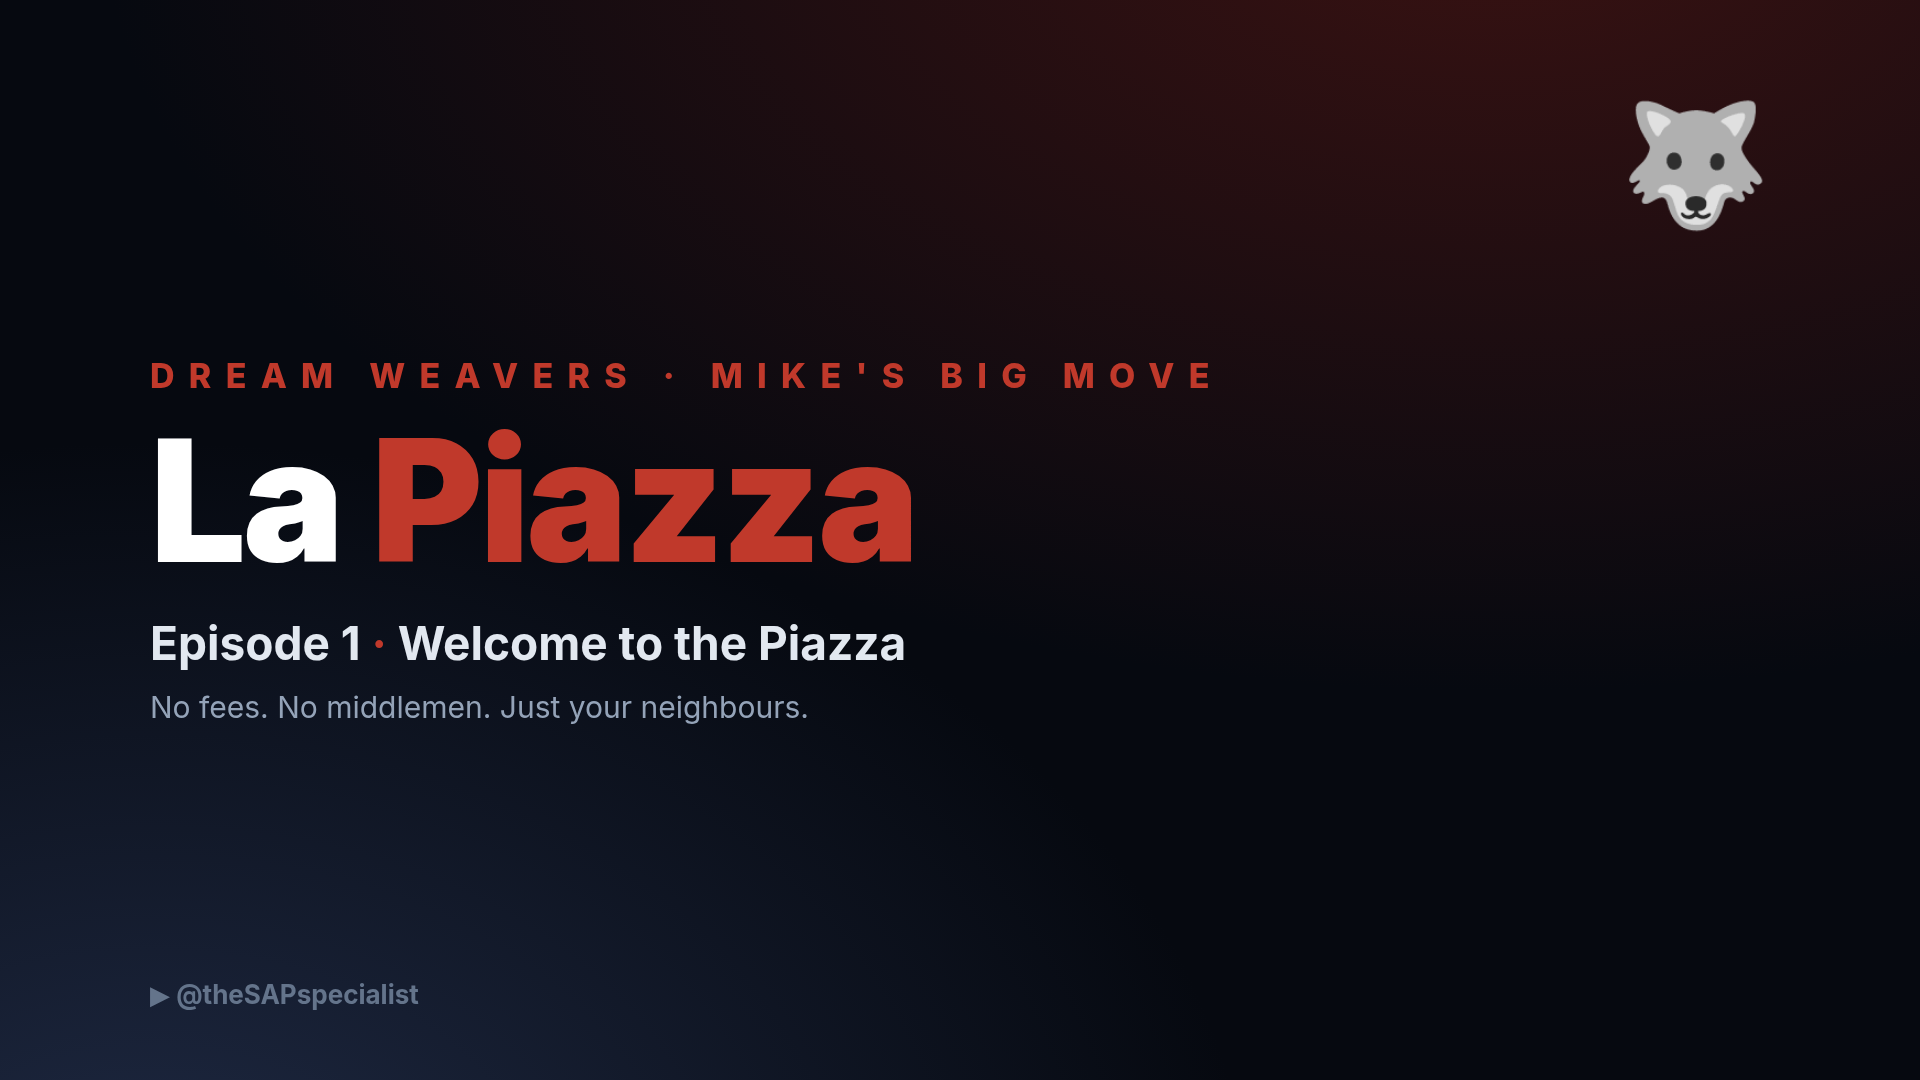
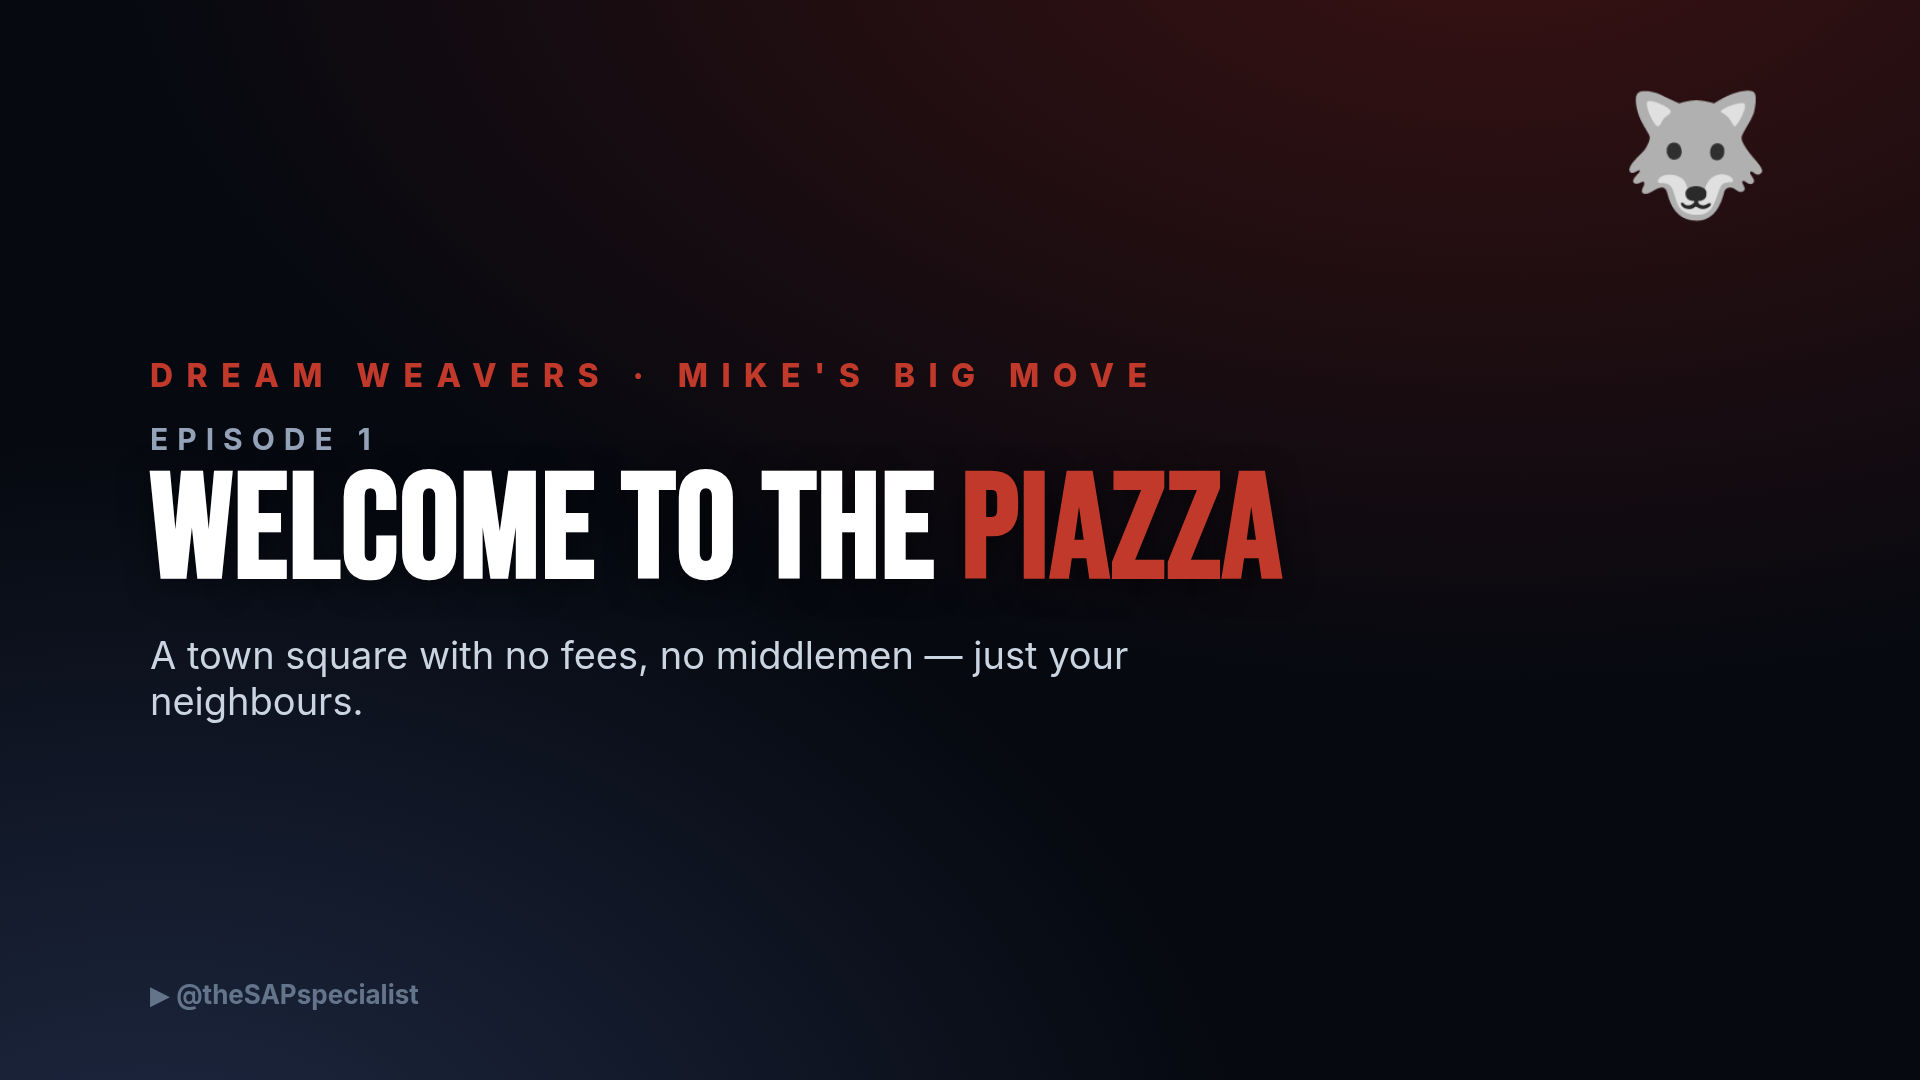
feat(video): the card pass — all 12 intro/outro cards + crossfade stitch (publish-ready season)
Parametrized card-template.html -> render-cards.js generates all 24 intro/outro cards (Ep 11 gets
the 'THE LIFT' crane climax card; Ep 12 the 'Build your own' finale). stitch-episodes.js wraps each
body with intro+outro cards and SMOOTH 0.7s crossfades (xfade). Finals in Videos/dream-weavers/final/
(not git). Season 1 is publish-ready for @user. Reusable for future seasons.

diff --git a/stories/dream-weavers/cards/card-template.html b/stories/dream-weavers/cards/card-template.html
@@ -1,0 +1,58 @@
+<!DOCTYPE html><html><head><meta charset="utf-8">
+<link href="https://fonts.googleapis.com/css2?family=Inter:wght@400;700;800;900&family=Bebas+Neue&display=swap" rel="stylesheet">
+<style>
+  *{margin:0;padding:0;box-sizing:border-box}
+  body{width:1920px;height:1080px;overflow:hidden;font-family:Inter,system-ui,sans-serif;color:#fff;
+    background:radial-gradient(1400px 800px at 78% -10%, #3a1212, transparent),
+               radial-gradient(1100px 800px at 8% 115%, #1f2a44, transparent), #060910;position:relative}
+  .wrap{position:absolute;inset:0;display:flex;flex-direction:column;justify-content:center;padding:0 150px}
+  .kicker{font-size:32px;letter-spacing:.42em;color:#C0392B;font-weight:800;text-transform:uppercase}
+  .epno{font-size:30px;letter-spacing:.3em;color:#94a3b8;font-weight:700;margin-top:26px;text-transform:uppercase}
+  h1{font-family:'Bebas Neue',sans-serif;font-size:148px;line-height:.92;letter-spacing:.01em;margin:8px 0 0;text-shadow:0 6px 30px rgba(0,0,0,.5)}
+  h1 .red{color:#C0392B}
+  .tag{font-size:38px;color:#cbd5e1;font-weight:500;margin-top:30px;max-width:1200px}
+  .ch{position:absolute;bottom:70px;left:150px;font-size:26px;color:#64748b;font-weight:600}
+  .wolf{position:absolute;top:80px;right:150px;font-size:120px}
+  /* outro */
+  .center{align-items:center;text-align:center;padding:0 120px}
+  .next{font-size:30px;letter-spacing:.3em;color:#C0392B;font-weight:800;text-transform:uppercase}
+  .cta{margin-top:54px;font-size:44px;font-weight:900;background:#C0392B;color:#fff;padding:22px 60px;border-radius:18px;display:inline-block}
+  .foot{position:absolute;bottom:64px;width:100%;left:0;text-align:center;font-size:26px;color:#64748b;font-weight:600}
+  .climax{position:absolute;right:90px;top:60px;font-size:340px;opacity:.13;transform:rotate(-8deg)}
+</style></head>
+<body>
+<script>
+  const p = new URLSearchParams(location.search);
+  const kind = p.get('kind') || 'intro';
+  const n = p.get('n') || '1';
+  const title = p.get('title') || '';
+  const tag = p.get('tag') || '';
+  const next = p.get('next') || '';
+  const climax = p.get('climax') === '1';
+  const finale = p.get('finale') === '1';
+  const esc = s => (s || '').replace(/&/g, '&amp;').replace(/</g, '&lt;');
+  // render red-accent the last word of a title
+  const redLast = t => { const w = esc(t).split(' '); if (w.length) w[w.length - 1] = '<span class="red">' + w[w.length - 1] + '</span>'; return w.join(' '); };
+  let html = '';
+  if (kind === 'intro') {
+    html = `${climax ? '<div class="climax">🏗️</div>' : '<div class="wolf">🐺</div>'}
+      <div class="wrap">
+        <div class="kicker">Dream Weavers · Mike's Big Move</div>
+        <div class="epno">Episode ${esc(n)}</div>
+        <h1>${redLast(title)}</h1>
+        <div class="tag">${esc(tag)}</div>
+      </div>
+      <div class="ch">▶ @theSAPspecialist</div>`;
+  } else {
+    html = `<div class="wolf">🐺</div>
+      <div class="wrap center">
+        ${finale
+          ? `<div class="next">La Piazza</div><h1 style="font-size:120px">Build your <span class="red">own</span>.</h1><div class="tag" style="margin-top:20px;text-align:center">A town square with no fees, no middlemen. Forever.</div>`
+          : `<div class="next">Next Episode</div><div class="epno" style="margin-top:14px">Episode ${esc(+n + 1)}</div><h1>${redLast(next)}</h1>`}
+        <div class="cta">▶ Subscribe · @theSAPspecialist</div>
+      </div>
+      <div class="foot">La Piazza · free · open source · forever</div>`;
+  }
+  document.body.insertAdjacentHTML('beforeend', html);
+</script>
+</body></html>

diff --git a/scripts/render-cards.js b/scripts/render-cards.js
@@ -1,0 +1,41 @@
+// Render all Dream Weavers intro/outro cards (1920x1080 PNGs) from the parametrized template.
+const puppeteer = require('puppeteer');
+const path = require('path');
+const TEMPLATE = 'file://' + path.resolve(__dirname, '../stories/dream-weavers/cards/card-template.html');
+const OUT = path.resolve(__dirname, '../stories/dream-weavers/cards');
+
+const EP = [
+  { n: 1, title: 'Welcome to the Piazza', tag: 'A town square with no fees, no middlemen — just your neighbours.' },
+  { n: 2, title: 'Ask the Neighbourhood', tag: 'Stuck on something big? Post it. The neighbourhood answers.' },
+  { n: 3, title: 'The Crew Rallies', tag: 'Five neighbours say yes — and Sally starts baking.' },
+  { n: 4, title: "It's Bigger Than a Garage", tag: 'A 1,000-lb crane needs twenty hands — so Mike makes an event.' },
+  { n: 5, title: 'RSVP and Open It Up', tag: 'The count climbs. Members RSVP. Everyone is welcome.' },
+  { n: 6, title: 'The Side Conversation', tag: 'The cookies, arranged quietly in the messages.' },
+  { n: 7, title: 'Grow the Crowd', tag: 'Share the link, scan the code — the crowd grows.' },
+  { n: 8, title: 'The Trade', tag: "Bowls for muscle. You don't always pay in euros." },
+  { n: 9, title: 'Spot the Scammer', tag: 'The off-platform funnel, caught — the warmth is protected.' },
+  { n: 10, title: "Who's Coming?", tag: 'See who looked. Say hi. Turn lookers into the last hands.' },
+  { n: 11, title: 'Saturday: The Lift', tag: 'Twenty hands. The crane rises. The cookies arrive.', climax: true },
+  { n: 12, title: 'Build Your Own Piazza', tag: 'You saw it work. Now build your own.', finale: true },
+];
+
+(async () => {
+  const b = await puppeteer.launch({ headless: 'new', args: ['--no-sandbox', '--disable-setuid-sandbox'] });
+  const page = await b.newPage();
+  await page.setViewport({ width: 1920, height: 1080, deviceScaleFactor: 1 });
+  const render = async (params, out) => {
+    const qs = new URLSearchParams(params).toString();
+    await page.goto(`${TEMPLATE}?${qs}`, { waitUntil: 'networkidle0' });
+    await new Promise(r => setTimeout(r, 450));   // fonts + the inject script
+    await page.screenshot({ path: out });
+    console.log('  ', path.basename(out));
+  };
+  for (const e of EP) {
+    const nn = String(e.n).padStart(2, '0');
+    const next = EP.find(x => x.n === e.n + 1);
+    await render({ kind: 'intro', n: e.n, title: e.title, tag: e.tag, climax: e.climax ? '1' : '' }, `${OUT}/ep${nn}-intro.png`);
+    await render({ kind: 'outro', n: e.n, next: next ? next.title : '', finale: e.finale ? '1' : '' }, `${OUT}/ep${nn}-outro.png`);
+  }
+  await b.close();
+  console.log('all cards rendered ->', OUT);
+})();

diff --git a/scripts/stitch-episodes.js b/scripts/stitch-episodes.js
@@ -1,0 +1,32 @@
+// Stitch each Dream Weavers episode: intro card + body + outro card, with smooth crossfades (xfade).
+const { execSync } = require('child_process');
+const fs = require('fs');
+const path = require('path');
+const CARDS = path.resolve(__dirname, '../stories/dream-weavers/cards');
+const VID = '/home/angel/Videos/dream-weavers';
+const FINAL = VID + '/final';
+fs.mkdirSync(FINAL, { recursive: true });
+
+const INTRO = 2.8, OUTRO = 3.2, XF = 0.7;   // card holds + crossfade duration (seconds)
+
+for (let n = 1; n <= 12; n++) {
+  const nn = String(n).padStart(2, '0');
+  const body = `${VID}/ep${nn}-playthrough.mp4`;
+  const intro = `${CARDS}/ep${nn}-intro.png`, outro = `${CARDS}/ep${nn}-outro.png`;
+  if (!fs.existsSync(body)) { console.log(`ep${nn}: no body, skip`); continue; }
+  const dur = parseFloat(execSync(`ffprobe -v error -show_entries format=duration -of csv=p=0 "${body}"`).toString().trim());
+  const off1 = (INTRO - XF).toFixed(2);
+  const off2 = (INTRO + dur - 2 * XF).toFixed(2);
+  const out = `${FINAL}/ep${nn}.mp4`;
+  const fc = [
+    `[0]fps=24,format=yuv420p,scale=1920:1080,setsar=1[i]`,
+    `[1]fps=24,format=yuv420p,scale=1920:1080,setsar=1[b]`,
+    `[2]fps=24,format=yuv420p,scale=1920:1080,setsar=1[o]`,
+    `[i][b]xfade=transition=fade:duration=${XF}:offset=${off1}[ib]`,
+    `[ib][o]xfade=transition=fade:duration=${XF}:offset=${off2}[v]`,
+  ].join(';');
+  execSync(`ffmpeg -y -loglevel error -loop 1 -t ${INTRO} -i "${intro}" -i "${body}" -loop 1 -t ${OUTRO} -i "${outro}" -filter_complex "${fc}" -map "[v]" -c:v libx264 -preset medium -crf 20 -pix_fmt yuv420p -movflags +faststart "${out}"`, { stdio: 'inherit' });
+  const fdur = parseFloat(execSync(`ffprobe -v error -show_entries format=duration -of csv=p=0 "${out}"`).toString().trim());
+  console.log(`  ep${nn}: body ${dur.toFixed(1)}s -> final ${fdur.toFixed(1)}s  (card+body+card, crossfaded)`);
+}
+console.log('✅ stitched ->', FINAL);